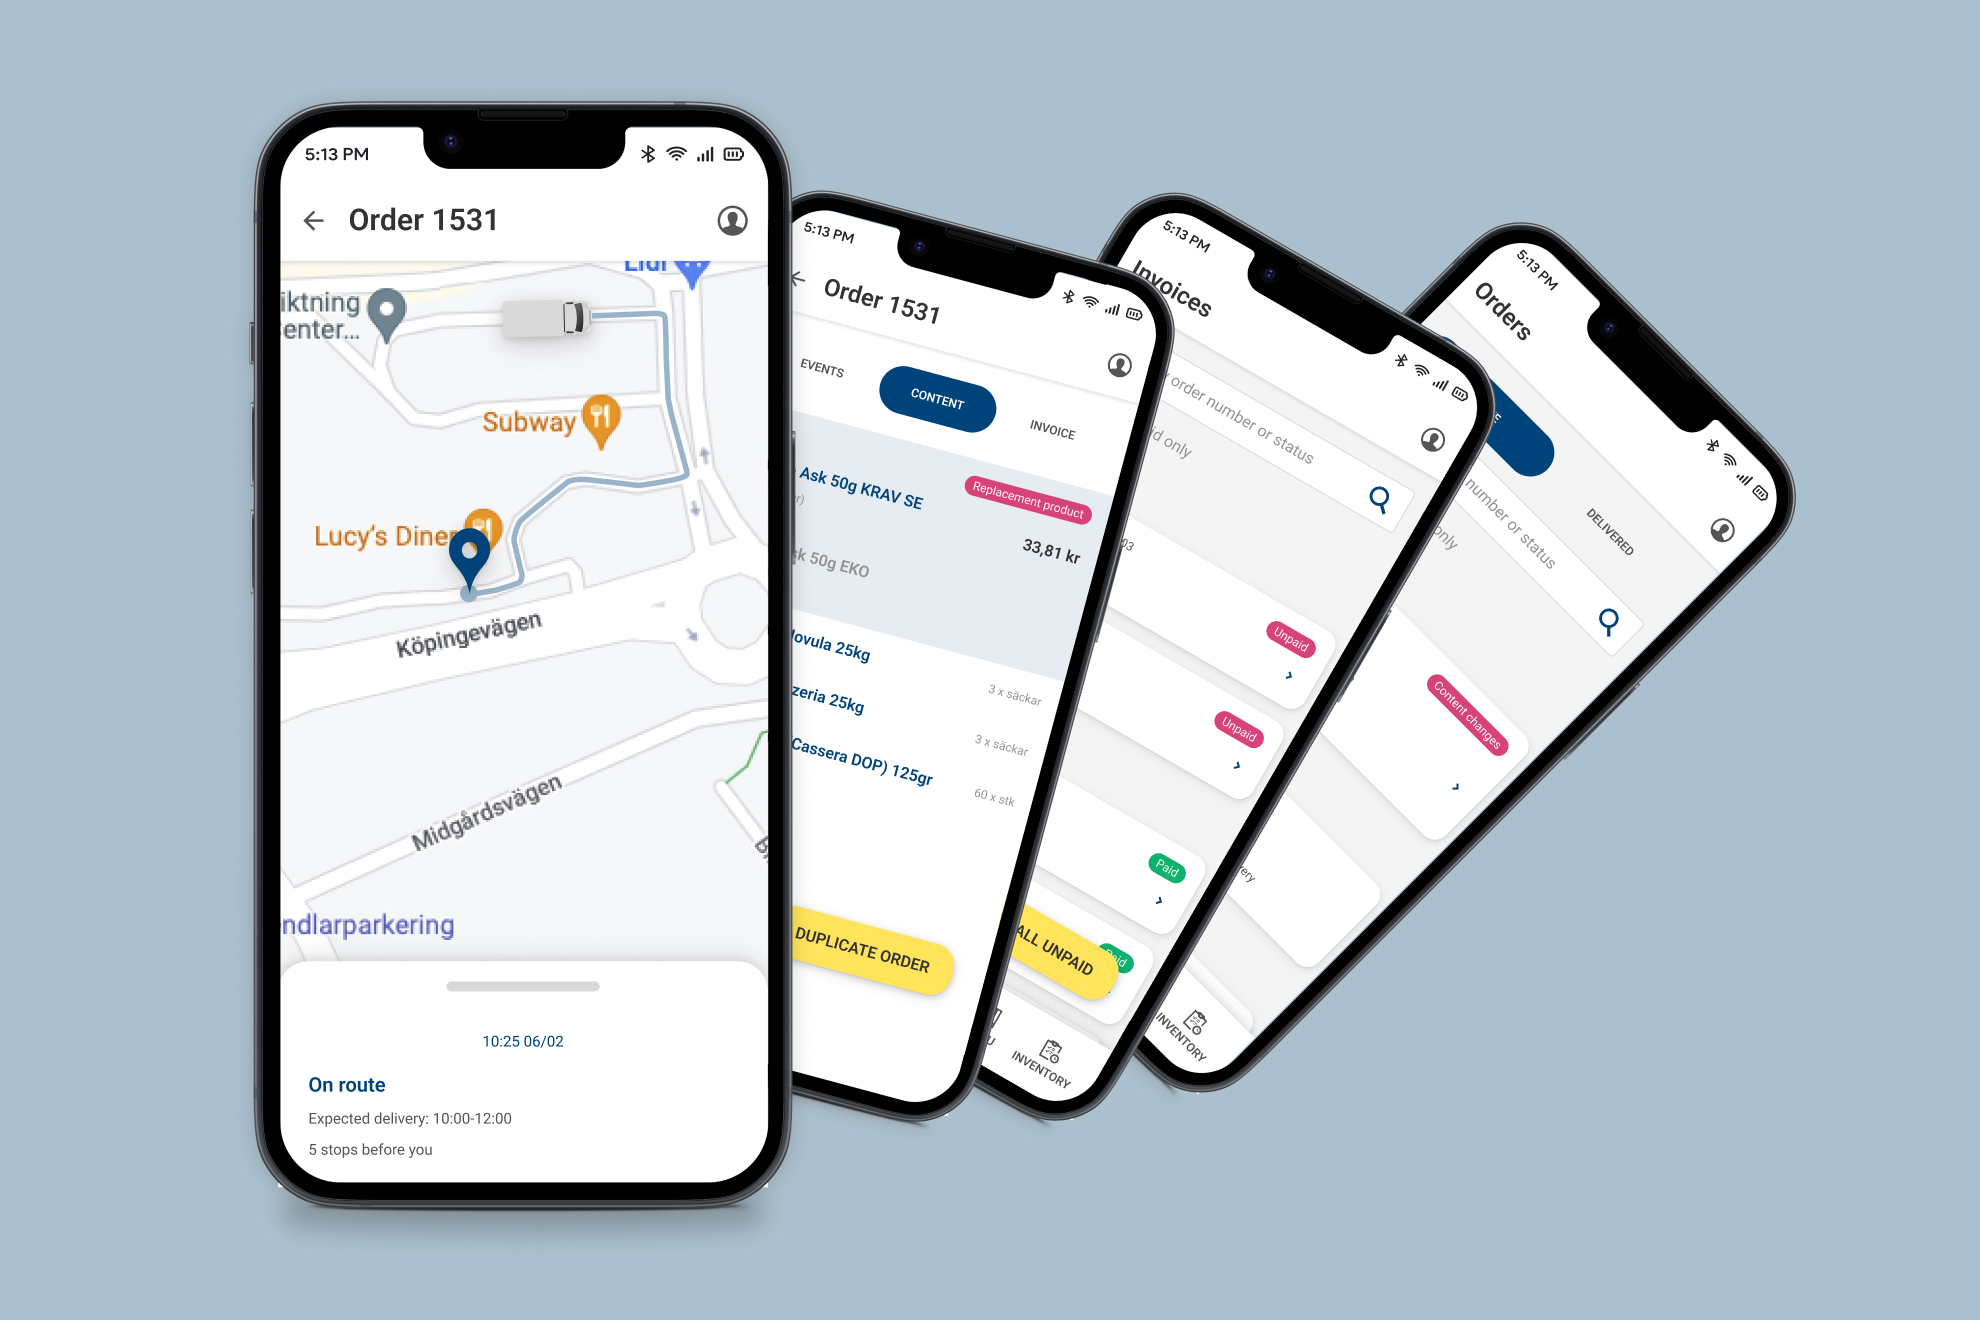
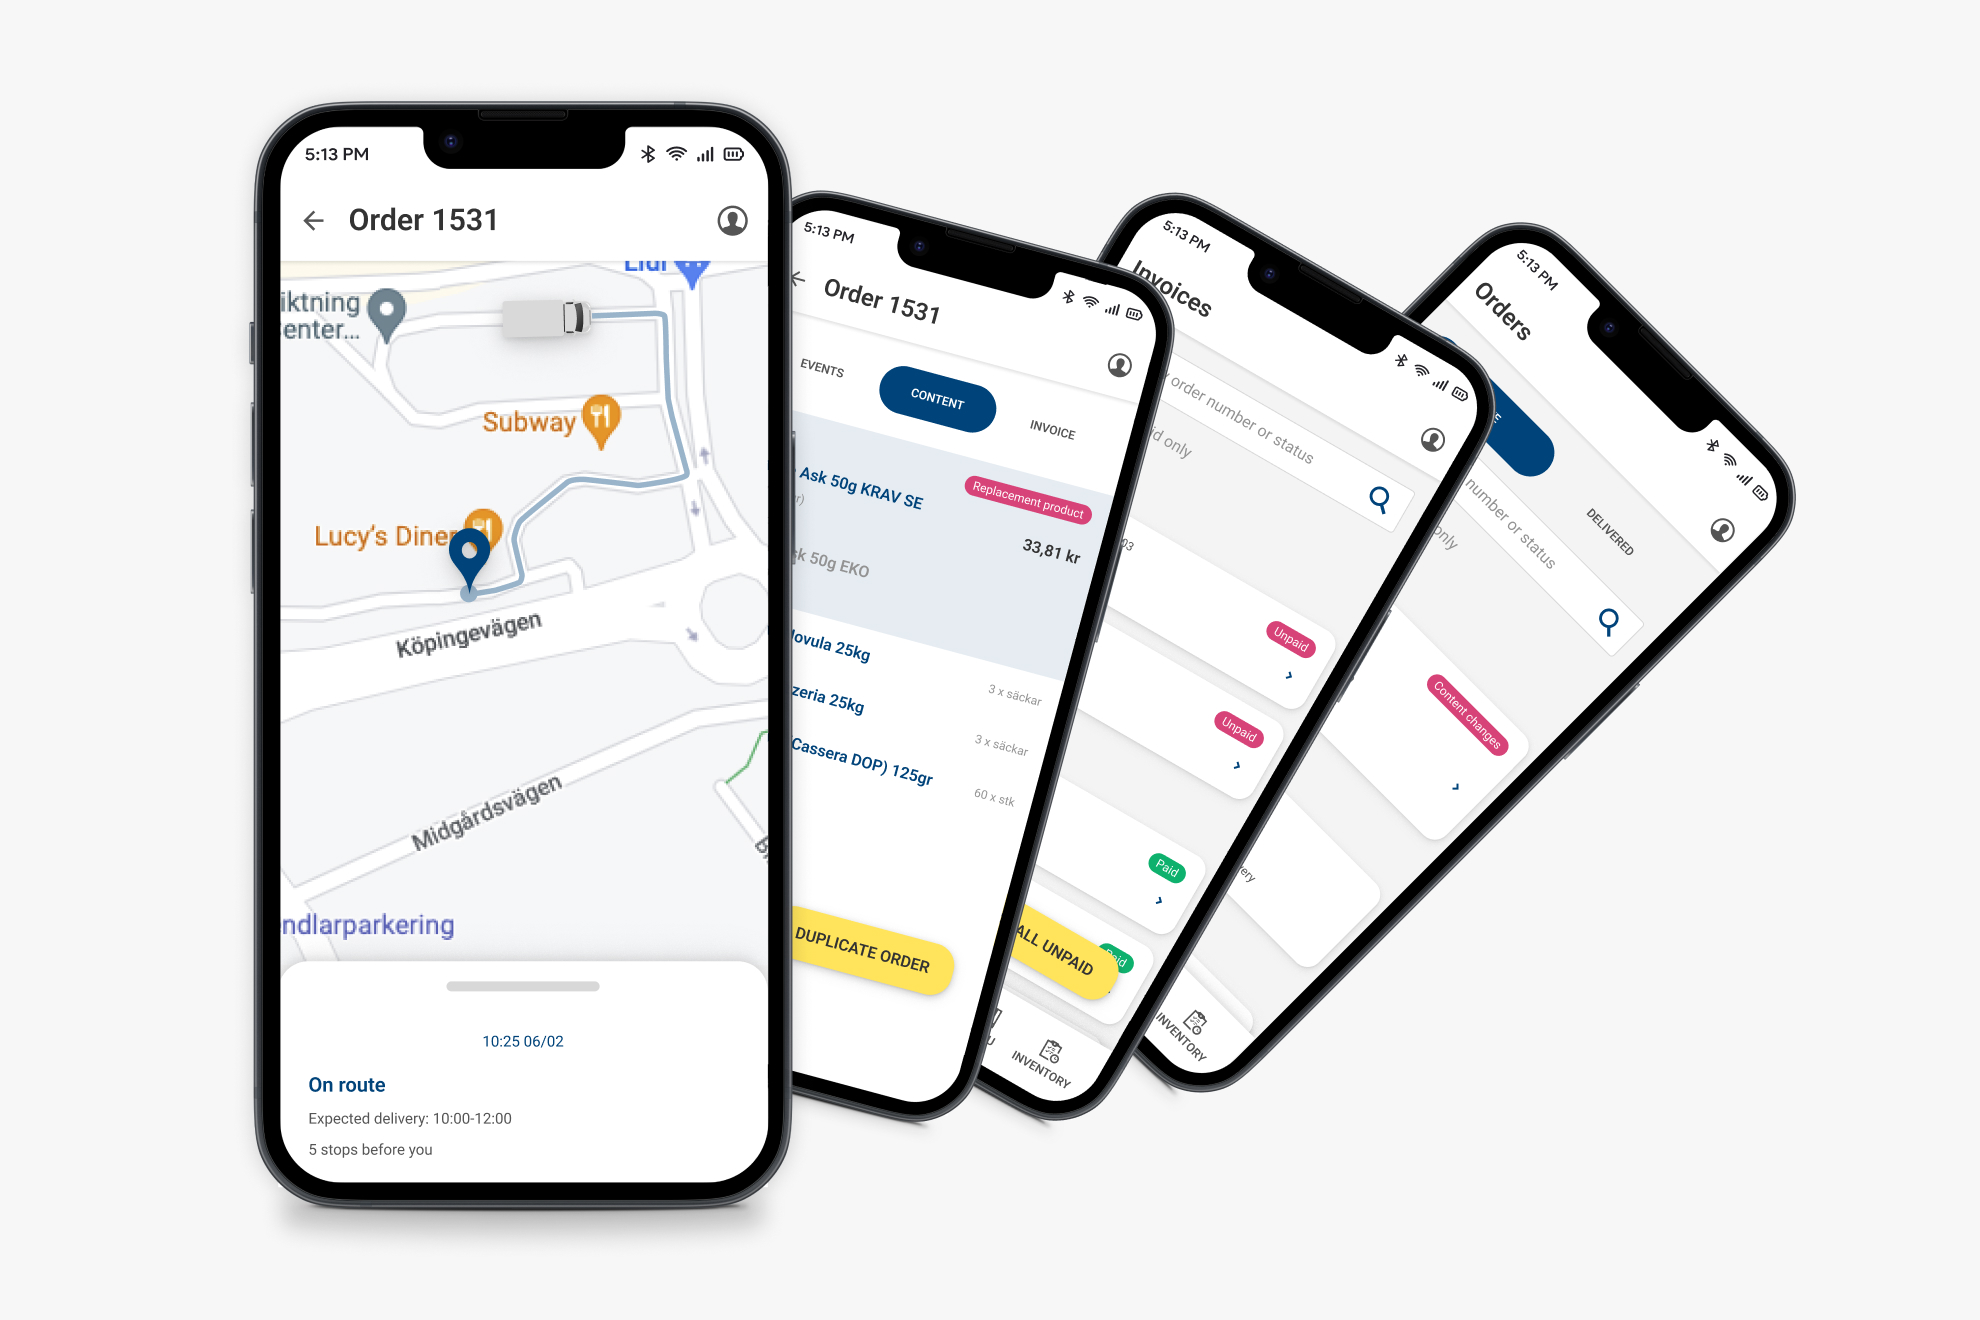
fixing case_13

diff --git a/src/data/CASE_13.js b/src/data/CASE_13.js
@@ -13,7 +13,7 @@ import { IMAGE_GALLERY_TEMPLATES } from "./dictionaries/IMAGE_GALLERY_TEMPLATES"
 import colors from "../theme/colors";
 
 const SETTINGS = {
-  BG_COLOR: "#abc0ce",
+  BG_COLOR: colors.offwhite,
   URL: "/cases/13",
   MEDIA_BASE_URL: "assets/case-13",
   KEY_FIGURES: {
@@ -458,7 +458,7 @@ export const CASE_13 = {
         {
           template: SECTION_ELEMENTS.SECTION_IMAGE,
           data: {
-            imageUrl: `${SETTINGS.MEDIA_BASE_URL}/result.png`,
+            imageUrl: `${SETTINGS.MEDIA_BASE_URL}/result.jpg`,
             imageAlt: "result",
           },
         },
